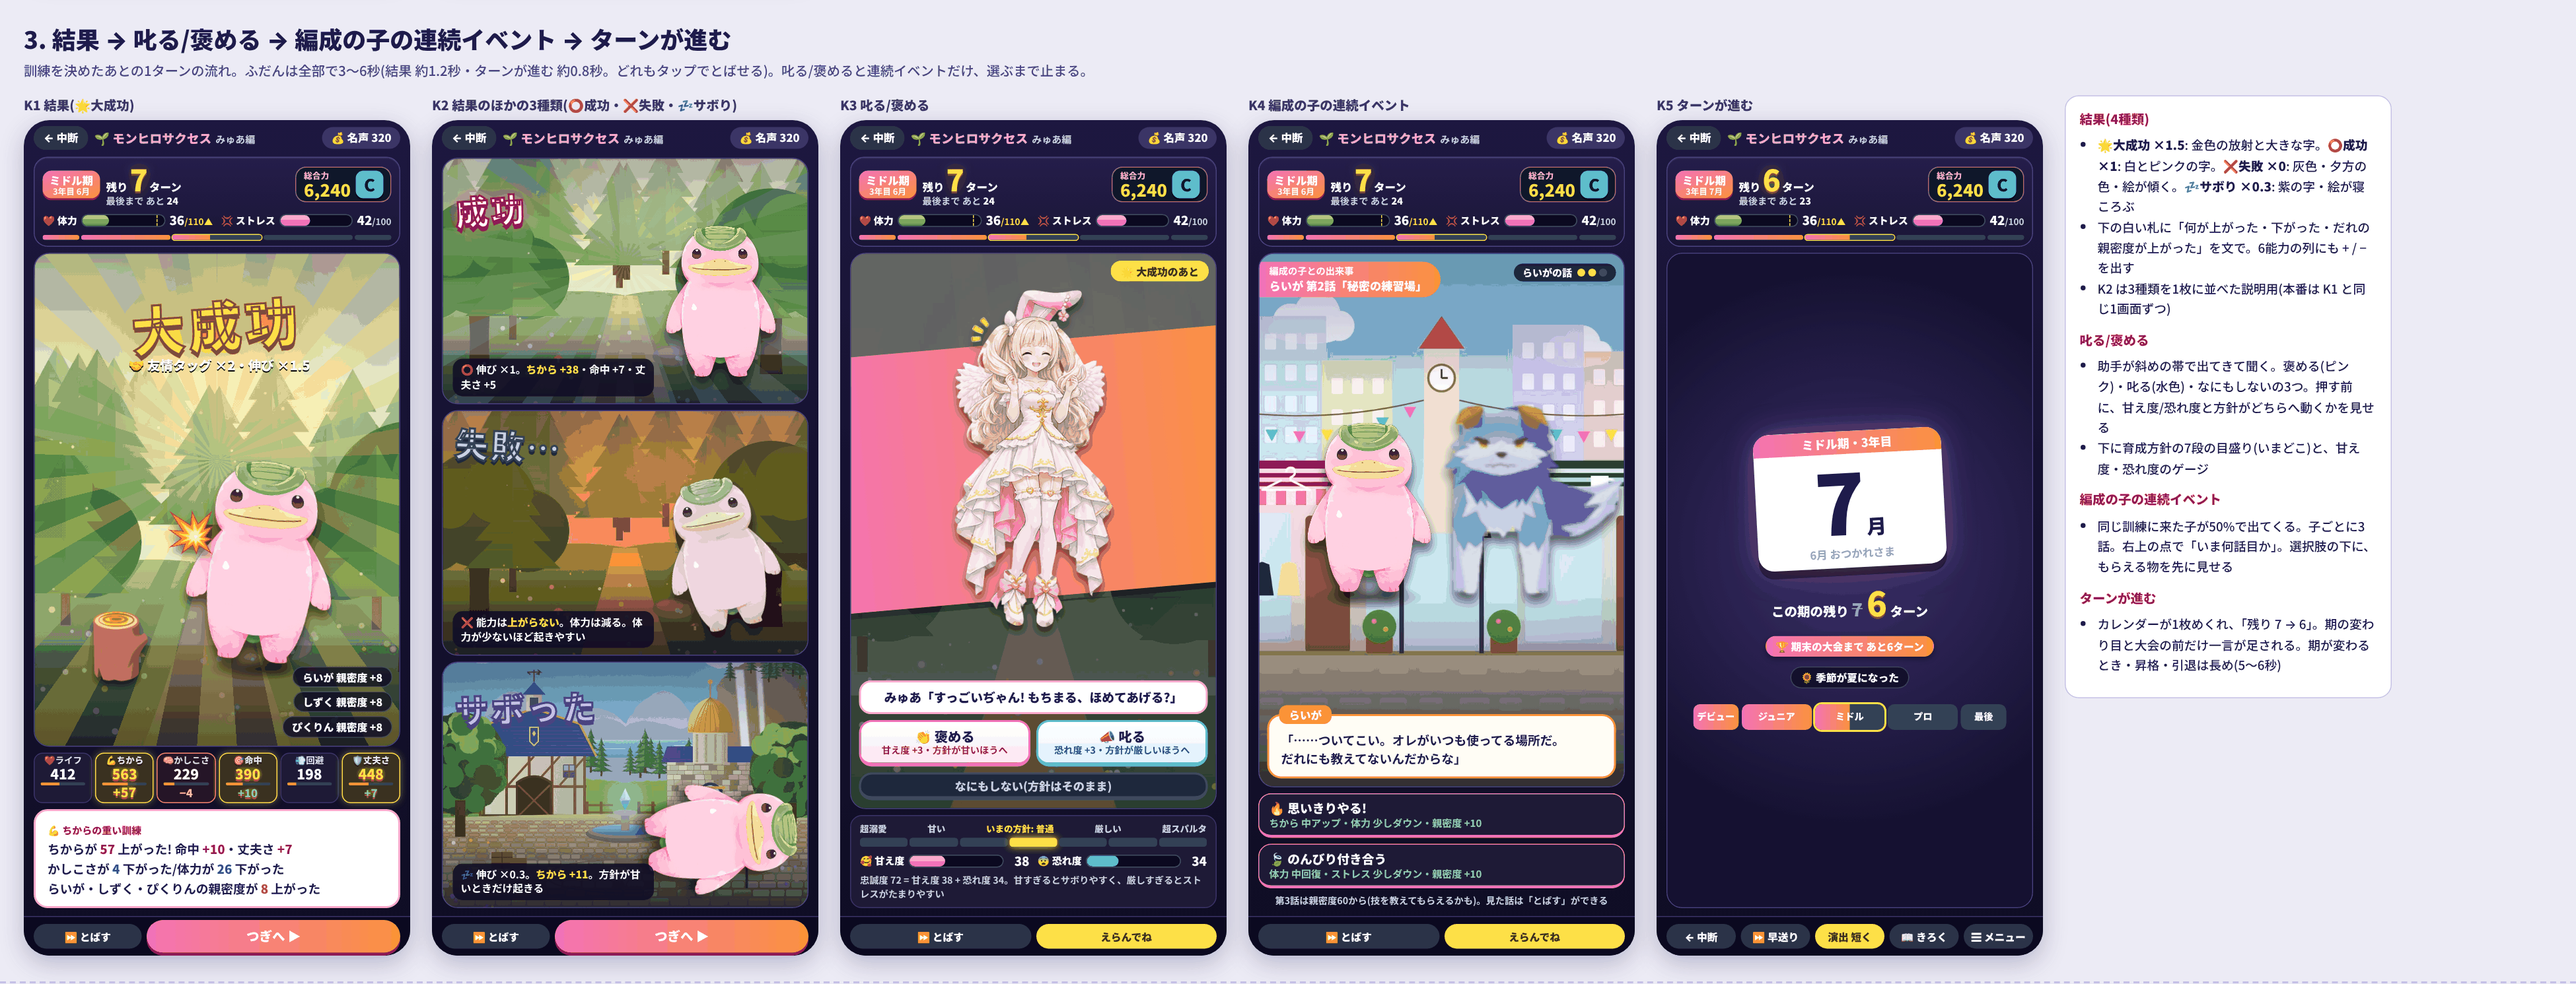
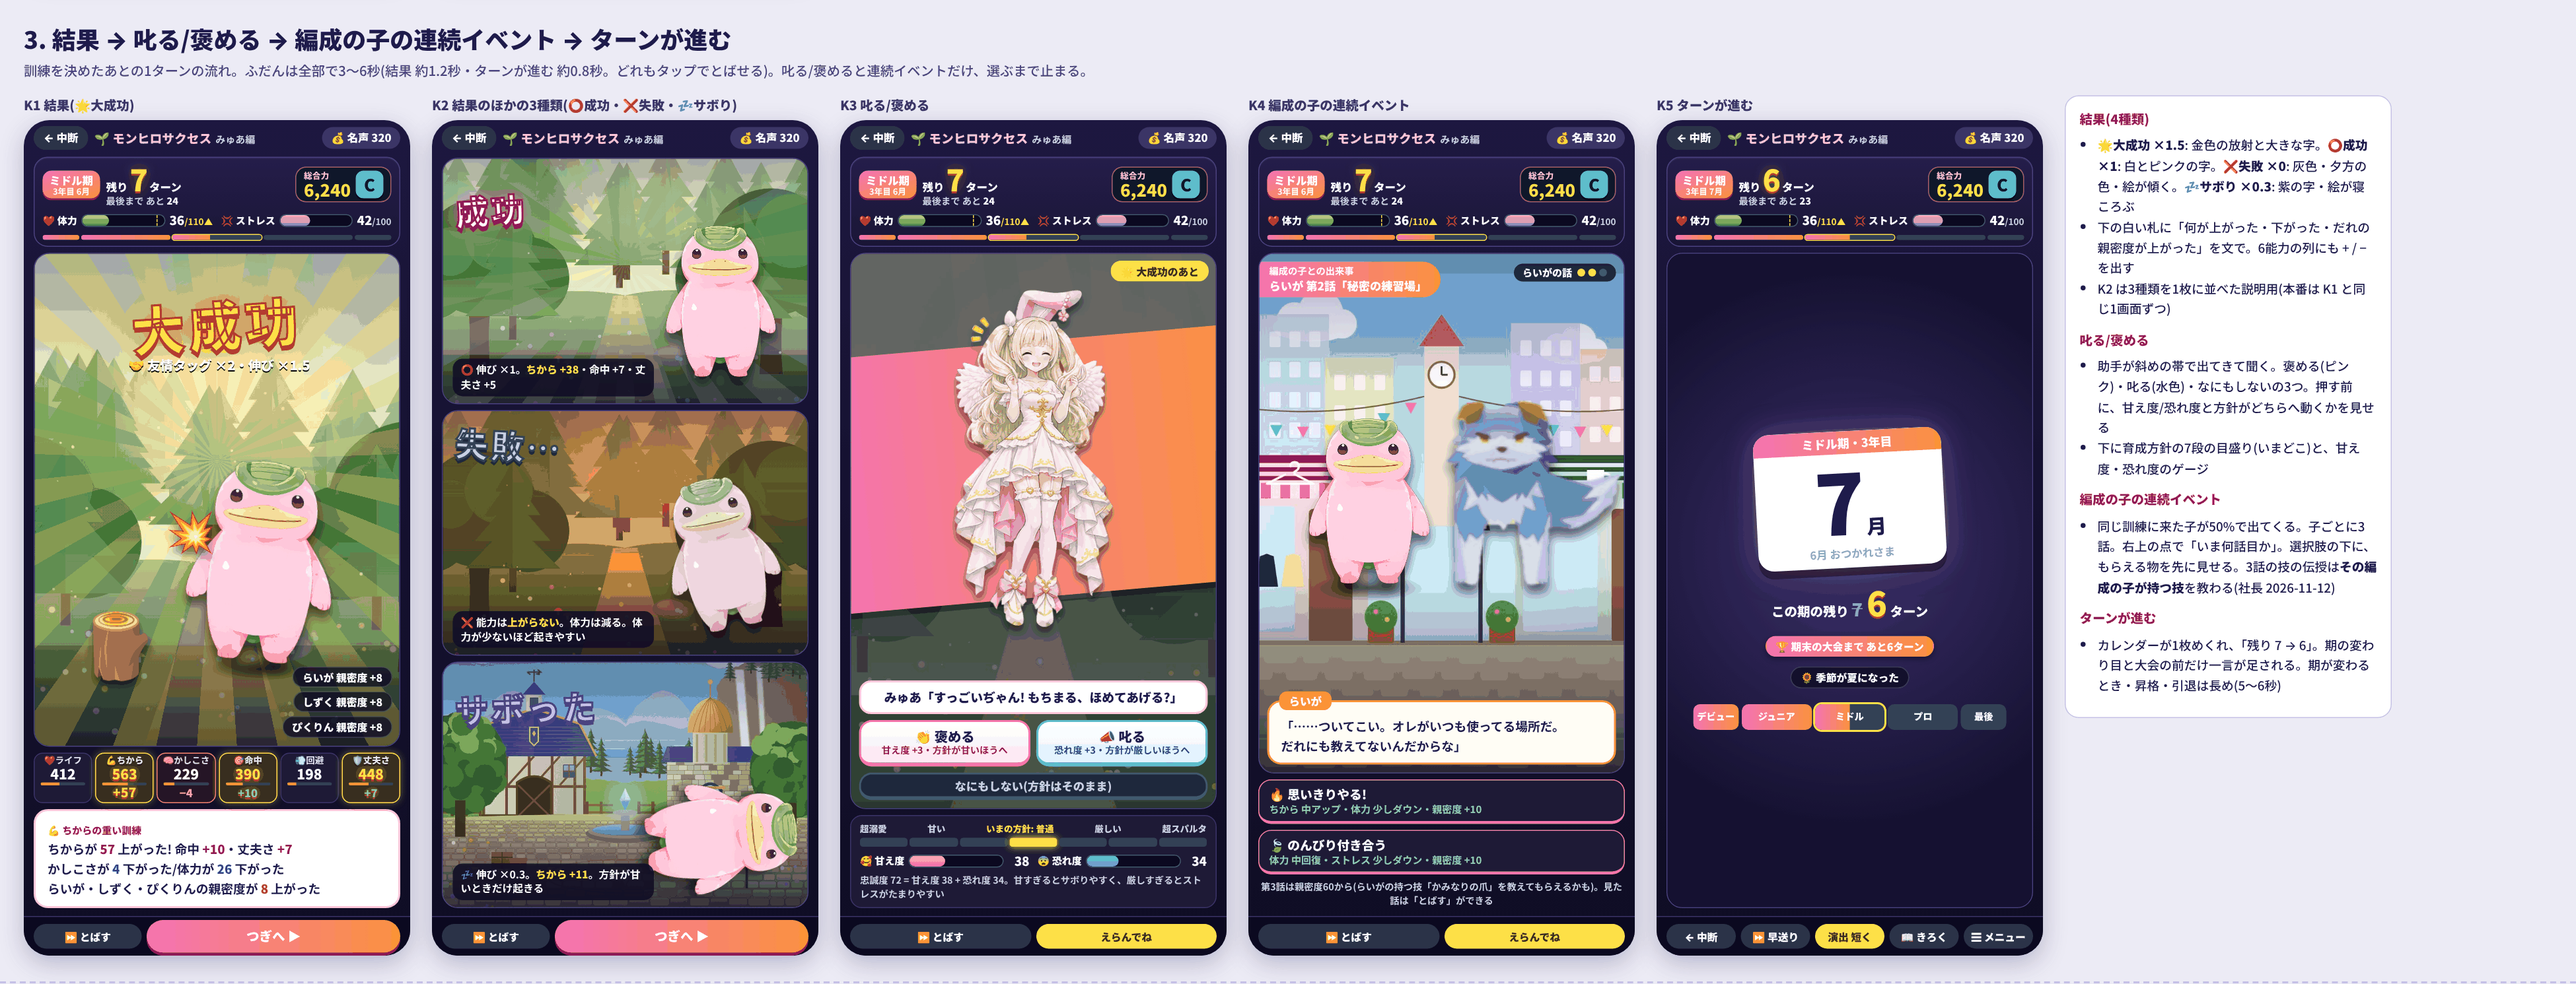
モンヒロサクセス: 止め絵に社長の答えの追加を入れた(景色は季節と時間で替わる・技の伝授は編成の子の技) (#5668)
README に答えを書き、連続イベント(K4)の文を合わせた。修行の2コマは答えの形のまま。docs だけ

Claude-Session: https://claude.ai/code/session_0113GBaD7KNmq1K8moMQtAR4

diff --git a/monster-hero/index.html b/monster-hero/index.html
@@ -102,7 +102,7 @@ var GAME_BUILD = 'bbb9bb147538';
 window.__mhGameBuild = GAME_BUILD;
 // 画面に出す版の日時(BUILD_DATE)。本体の中に書くと、ビルドのたびに本体の中身(と GAME_BUILD)が変わり、
 // 事前ダウンロードにためた本体が使えなくなるので、ここから渡す。tools/stamp-version.js が version.json と同じ値を打つ
-window.__mhBuildDate = '2026-11-12 16:54';
+window.__mhBuildDate = '2026-11-12 16:58';
 // 起動でいちばん大きいのは本体JS(約2.7MB)。いちばん後ろで読むため、そこへ来ると
 // ゲージが止まって見えていた。先に取りはじめて、受け取ったバイト数をそのまま出す。
 // ここで取ったものはブラウザのキャッシュに載るので、下の <script> は取り直さない

diff --git a/docs/progress/player-raise/mock/README.md b/docs/progress/player-raise/mock/README.md
@@ -39,9 +39,12 @@
 - イッサ博士の成功の率は **点4つ** で見せる
 - 編成の6体の列は **いつも出す**
 - ごはんは **大会のあとのごほうび** であげる(メインのボタンにもターンのはじめにも置かない)→ C3 を足した
+- 景色は **季節と時間で替わる**(見本は昼のまま)
+- 修行は参考と同じ形(2段で能力2つ・最後に技を覚えるくじ・失敗で次の率アップ)→ Q1・Q2 はこの形
+- 編成の子の連続イベントの技の伝授は **その編成の子が持つ技** を教わる → K4 の文を合わせた
 - 参考動画の3本目(修行とアイテム)から: メインのボタンを2段に並べ直し、持ち物の袋と能力ポイントの数字を足し、修行の2コマ(Q1・Q2)を足した
 
-### 社長に聞いたこと(答えは上・景色の時間だけ未定)
+### 社長に聞いたこと(答えは上・全部決まった)
 
 1. **住む場所の景色の時間**(`png/v3-compare.png`)
    - **(推奨)季節と時間で替わる(春の昼・夏の夕方・冬の夜 など)。この見本は昼**: 画面が明るく、前の夜だけの見本より「遊びたくなる」。まわりの帯とボタンは暗い紺のまま
